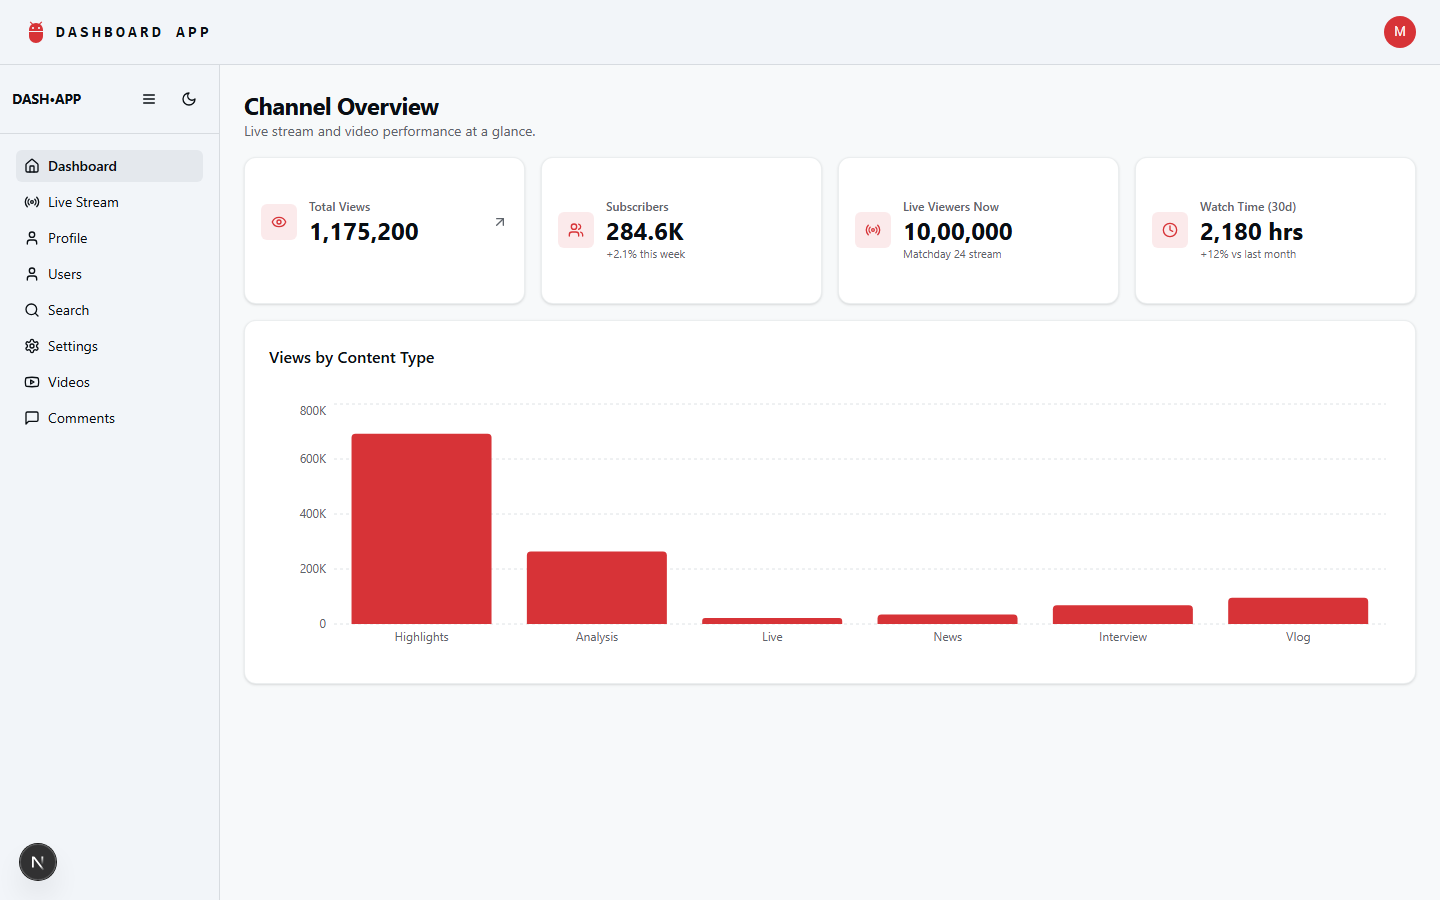
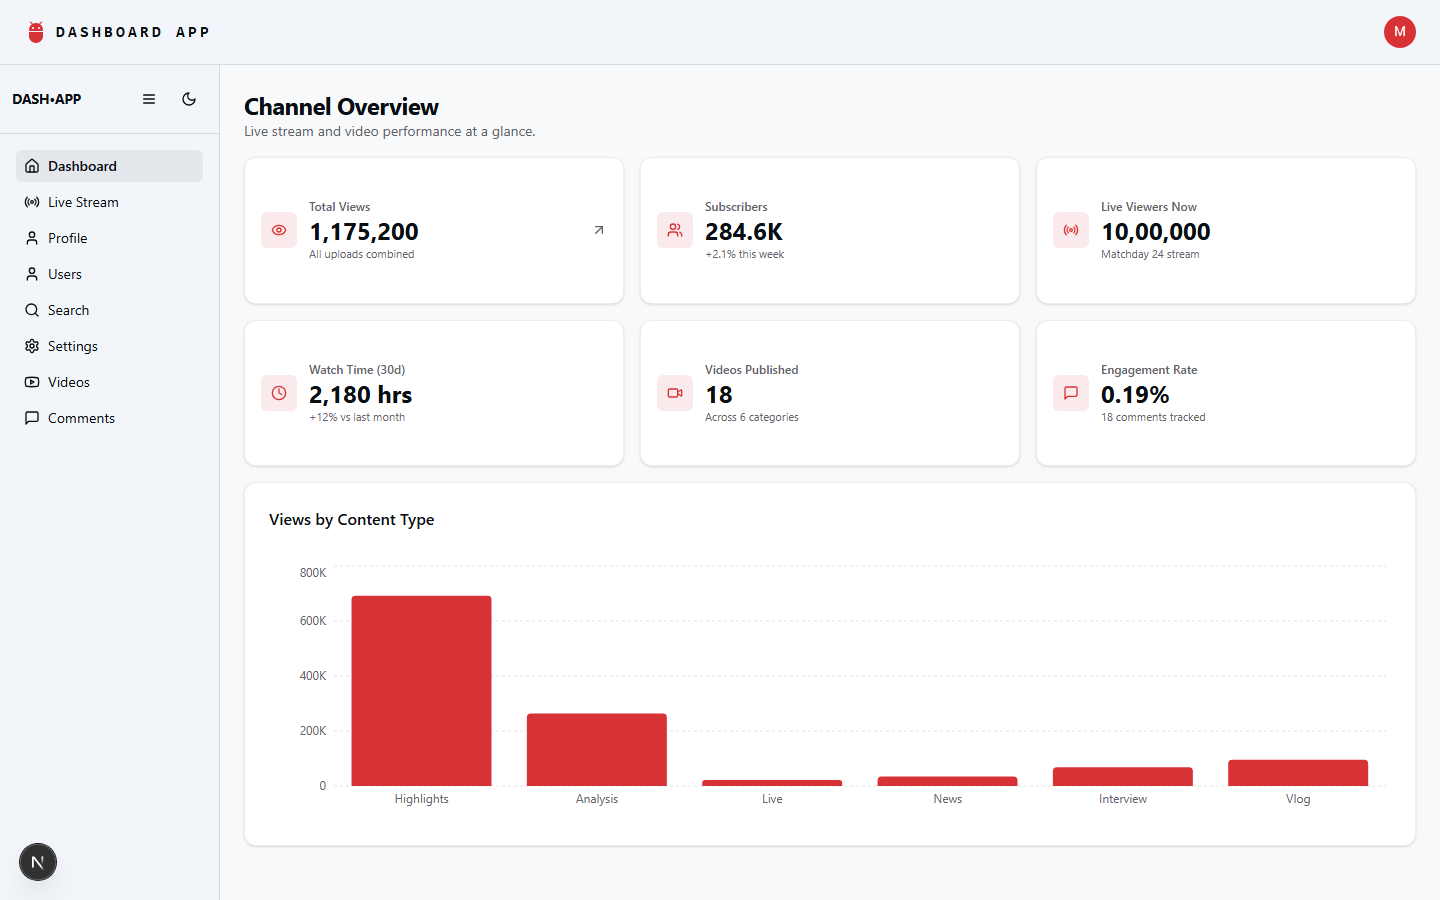
Expand Channel Overview to 6 stats, all derived from real data
Add Videos Published (count from the video dataset) and Engagement
Rate ((likes + comments) / views, from the comments dataset) alongside
the existing Total Views, Subscribers, Live Viewers, and Watch Time.
Grid moves to 3 columns to fit. Refresh the README light-mode preview
to match.

diff --git a/src/app/Components/Dashboardcard/Dashboardcard.tsx b/src/app/Components/Dashboardcard/Dashboardcard.tsx
@@ -1,6 +1,6 @@
 import { useEffect, useState } from "react";
 import { Card, CardContent, CardHeader, CardTitle } from "@/components/ui/card";
-import { Users, Eye, Radio, Clock, ArrowUpRight } from "lucide-react";
+import { Users, Eye, Radio, Clock, Video, MessageSquare, ArrowUpRight } from "lucide-react";
 import { Bar, BarChart, CartesianGrid, ResponsiveContainer, Tooltip, XAxis, YAxis } from "recharts";
 import { formatIndianNumber } from "@/lib/utils";
 
@@ -13,29 +13,34 @@ interface VideoType {
   uploadedAt: string;
 }
 
-const channelStats = [
-  { key: "subscribers", label: "Subscribers", value: "284.6K", change: "+2.1% this week", icon: Users },
-  {
-    key: "liveViewers",
-    label: "Live Viewers Now",
-    value: formatIndianNumber(1_000_000),
-    change: "Matchday 24 stream",
-    icon: Radio,
-  },
-  { key: "watchTime", label: "Watch Time (30d)", value: "2,180 hrs", change: "+12% vs last month", icon: Clock },
-] as const;
+interface CommentType {
+  id: number;
+  videoId: number;
+  author: string;
+  text: string;
+  likes: number;
+  timeAgo: string;
+}
 
 export default function DashboardCard() {
   const [videos, setVideos] = useState<VideoType[]>([]);
+  const [comments, setComments] = useState<CommentType[]>([]);
 
   useEffect(() => {
     fetch("/api/videos")
       .then((res) => res.json())
       .then(setVideos)
       .catch((error) => console.error("Error fetching videos:", error));
+
+    fetch("/api/comments")
+      .then((res) => res.json())
+      .then(setComments)
+      .catch((error) => console.error("Error fetching comments:", error));
   }, []);
 
   const totalViews = videos.reduce((sum, video) => sum + video.views, 0);
+  const totalLikes = comments.reduce((sum, comment) => sum + comment.likes, 0);
+  const engagementRate = totalViews > 0 ? ((totalLikes + comments.length) / totalViews) * 100 : 0;
 
   const viewsByCategory = Object.values(
     videos.reduce<Record<string, { name: string; value: number }>>((acc, video) => {
@@ -45,6 +50,39 @@ export default function DashboardCard() {
     }, {})
   );
 
+  const stats = [
+    {
+      key: "totalViews",
+      label: "Total Views",
+      value: totalViews > 0 ? totalViews.toLocaleString() : "—",
+      change: "All uploads combined",
+      icon: Eye,
+    },
+    { key: "subscribers", label: "Subscribers", value: "284.6K", change: "+2.1% this week", icon: Users },
+    {
+      key: "liveViewers",
+      label: "Live Viewers Now",
+      value: formatIndianNumber(1_000_000),
+      change: "Matchday 24 stream",
+      icon: Radio,
+    },
+    { key: "watchTime", label: "Watch Time (30d)", value: "2,180 hrs", change: "+12% vs last month", icon: Clock },
+    {
+      key: "totalVideos",
+      label: "Videos Published",
+      value: videos.length > 0 ? String(videos.length) : "—",
+      change: "Across 6 categories",
+      icon: Video,
+    },
+    {
+      key: "engagement",
+      label: "Engagement Rate",
+      value: totalViews > 0 ? `${engagementRate.toFixed(2)}%` : "—",
+      change: `${comments.length > 0 ? comments.length : "—"} comments tracked`,
+      icon: MessageSquare,
+    },
+  ];
+
   return (
     <div className="space-y-4">
       <div>
@@ -52,22 +90,8 @@ export default function DashboardCard() {
         <p className="text-sm text-muted-foreground">Live stream and video performance at a glance.</p>
       </div>
 
-      <div className="grid grid-cols-1 gap-4 sm:grid-cols-2 lg:grid-cols-4">
-        <Card className="border-border/60">
-          <CardContent className="flex items-center gap-3 p-4">
-            <div className="flex size-9 shrink-0 items-center justify-center rounded-md bg-accent/10 text-accent">
-              <Eye className="size-4" />
-            </div>
-            <div>
-              <p className="text-xs font-medium text-muted-foreground">Total Views</p>
-              <p className="text-2xl font-bold tabular-nums text-foreground">
-                {totalViews > 0 ? totalViews.toLocaleString() : "—"}
-              </p>
-            </div>
-            <ArrowUpRight className="ml-auto size-4 text-muted-foreground" />
-          </CardContent>
-        </Card>
-        {channelStats.map(({ key, label, value, change, icon: Icon }) => (
+      <div className="grid grid-cols-1 gap-4 sm:grid-cols-2 lg:grid-cols-3">
+        {stats.map(({ key, label, value, change, icon: Icon }) => (
           <Card key={key} className="border-border/60">
             <CardContent className="flex items-center gap-3 p-4">
               <div className="flex size-9 shrink-0 items-center justify-center rounded-md bg-accent/10 text-accent">
@@ -78,6 +102,7 @@ export default function DashboardCard() {
                 <p className="text-2xl font-bold tabular-nums text-foreground">{value}</p>
                 <p className="text-[11px] text-muted-foreground">{change}</p>
               </div>
+              {key === "totalViews" && <ArrowUpRight className="ml-auto size-4 text-muted-foreground" />}
             </CardContent>
           </Card>
         ))}
